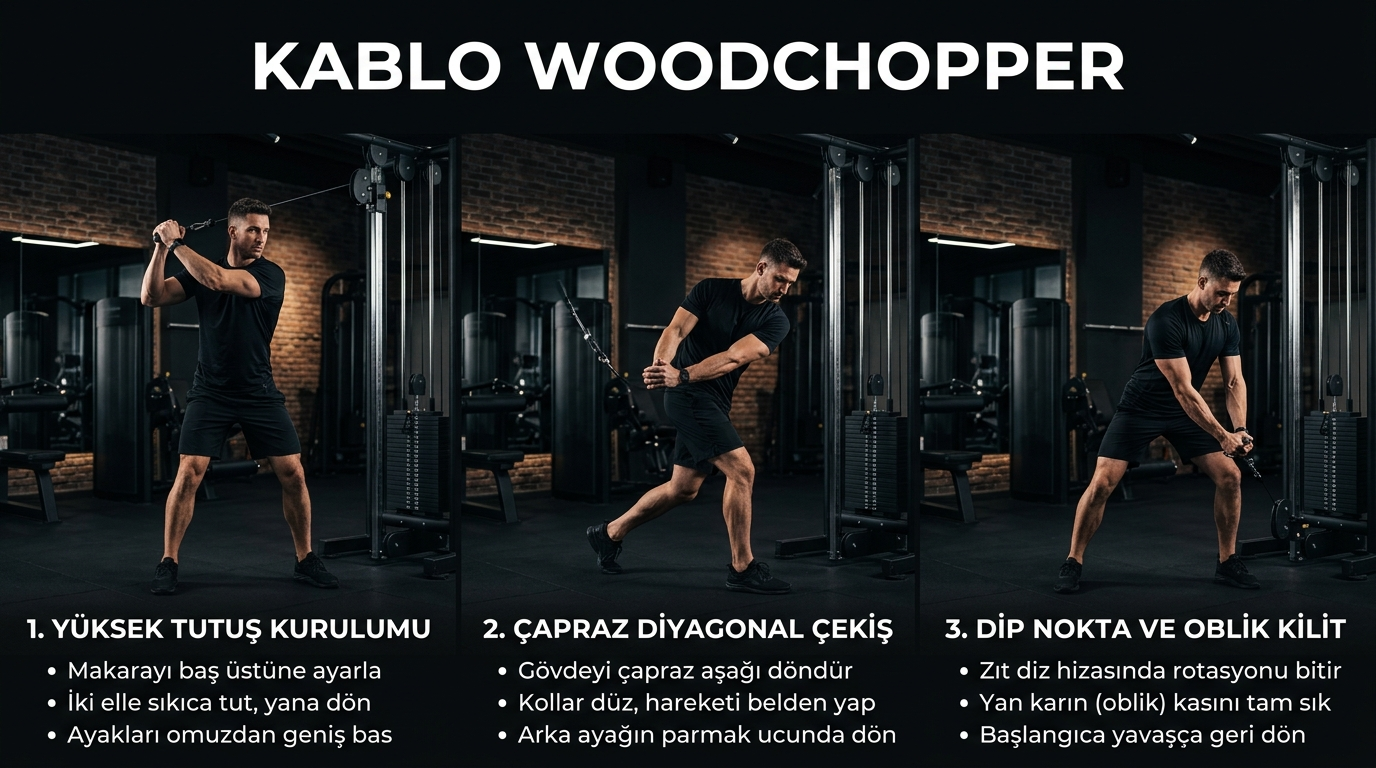
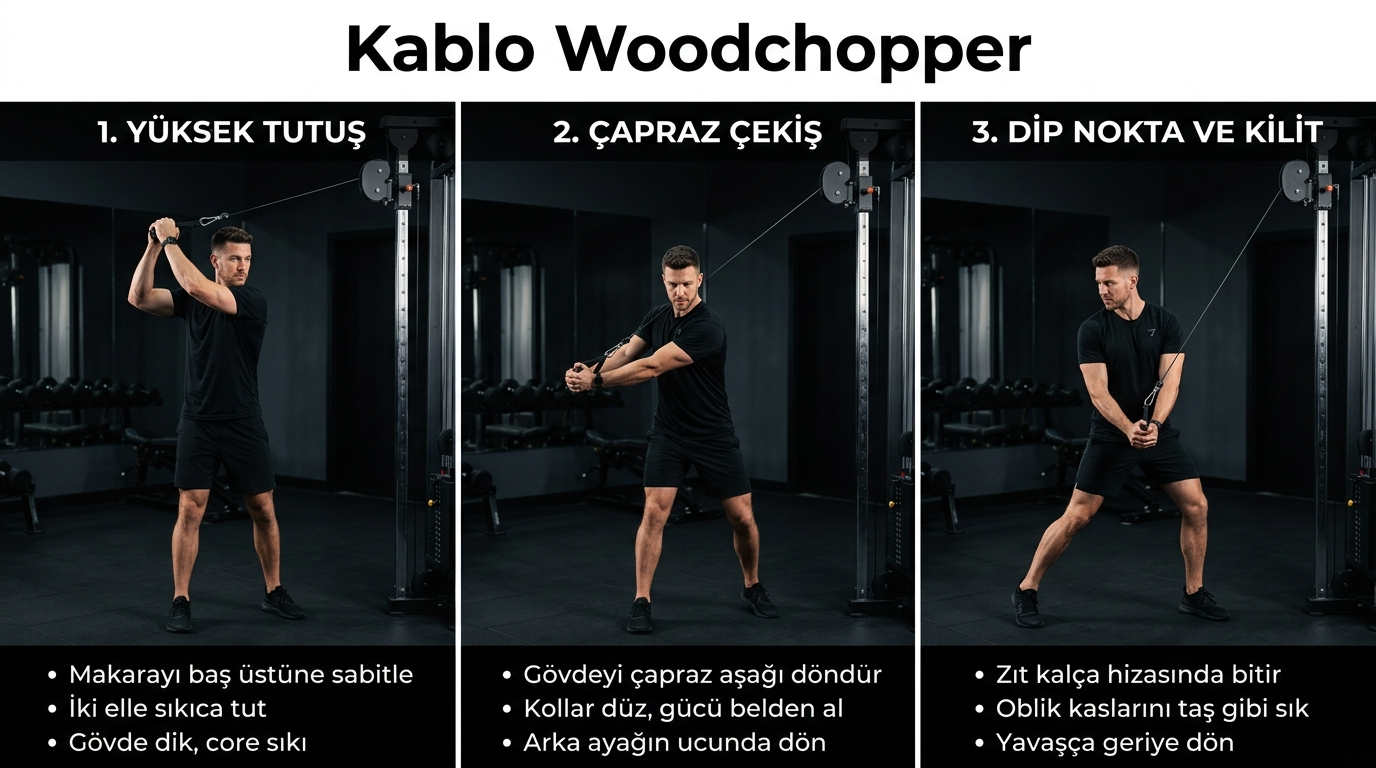
fix: make cable pulley height strictly consistent (locked at high position) across all 3 panels in Cable Woodchopper guide

diff --git a/sw.js b/sw.js
@@ -1,4 +1,4 @@
-const CACHE_NAME = 'celik-kodu-cache-v25';
+const CACHE_NAME = 'celik-kodu-cache-v26';
 const ASSETS = [
   './',
   './assets/guides/guide_bw_air_squat_form.jpg',
